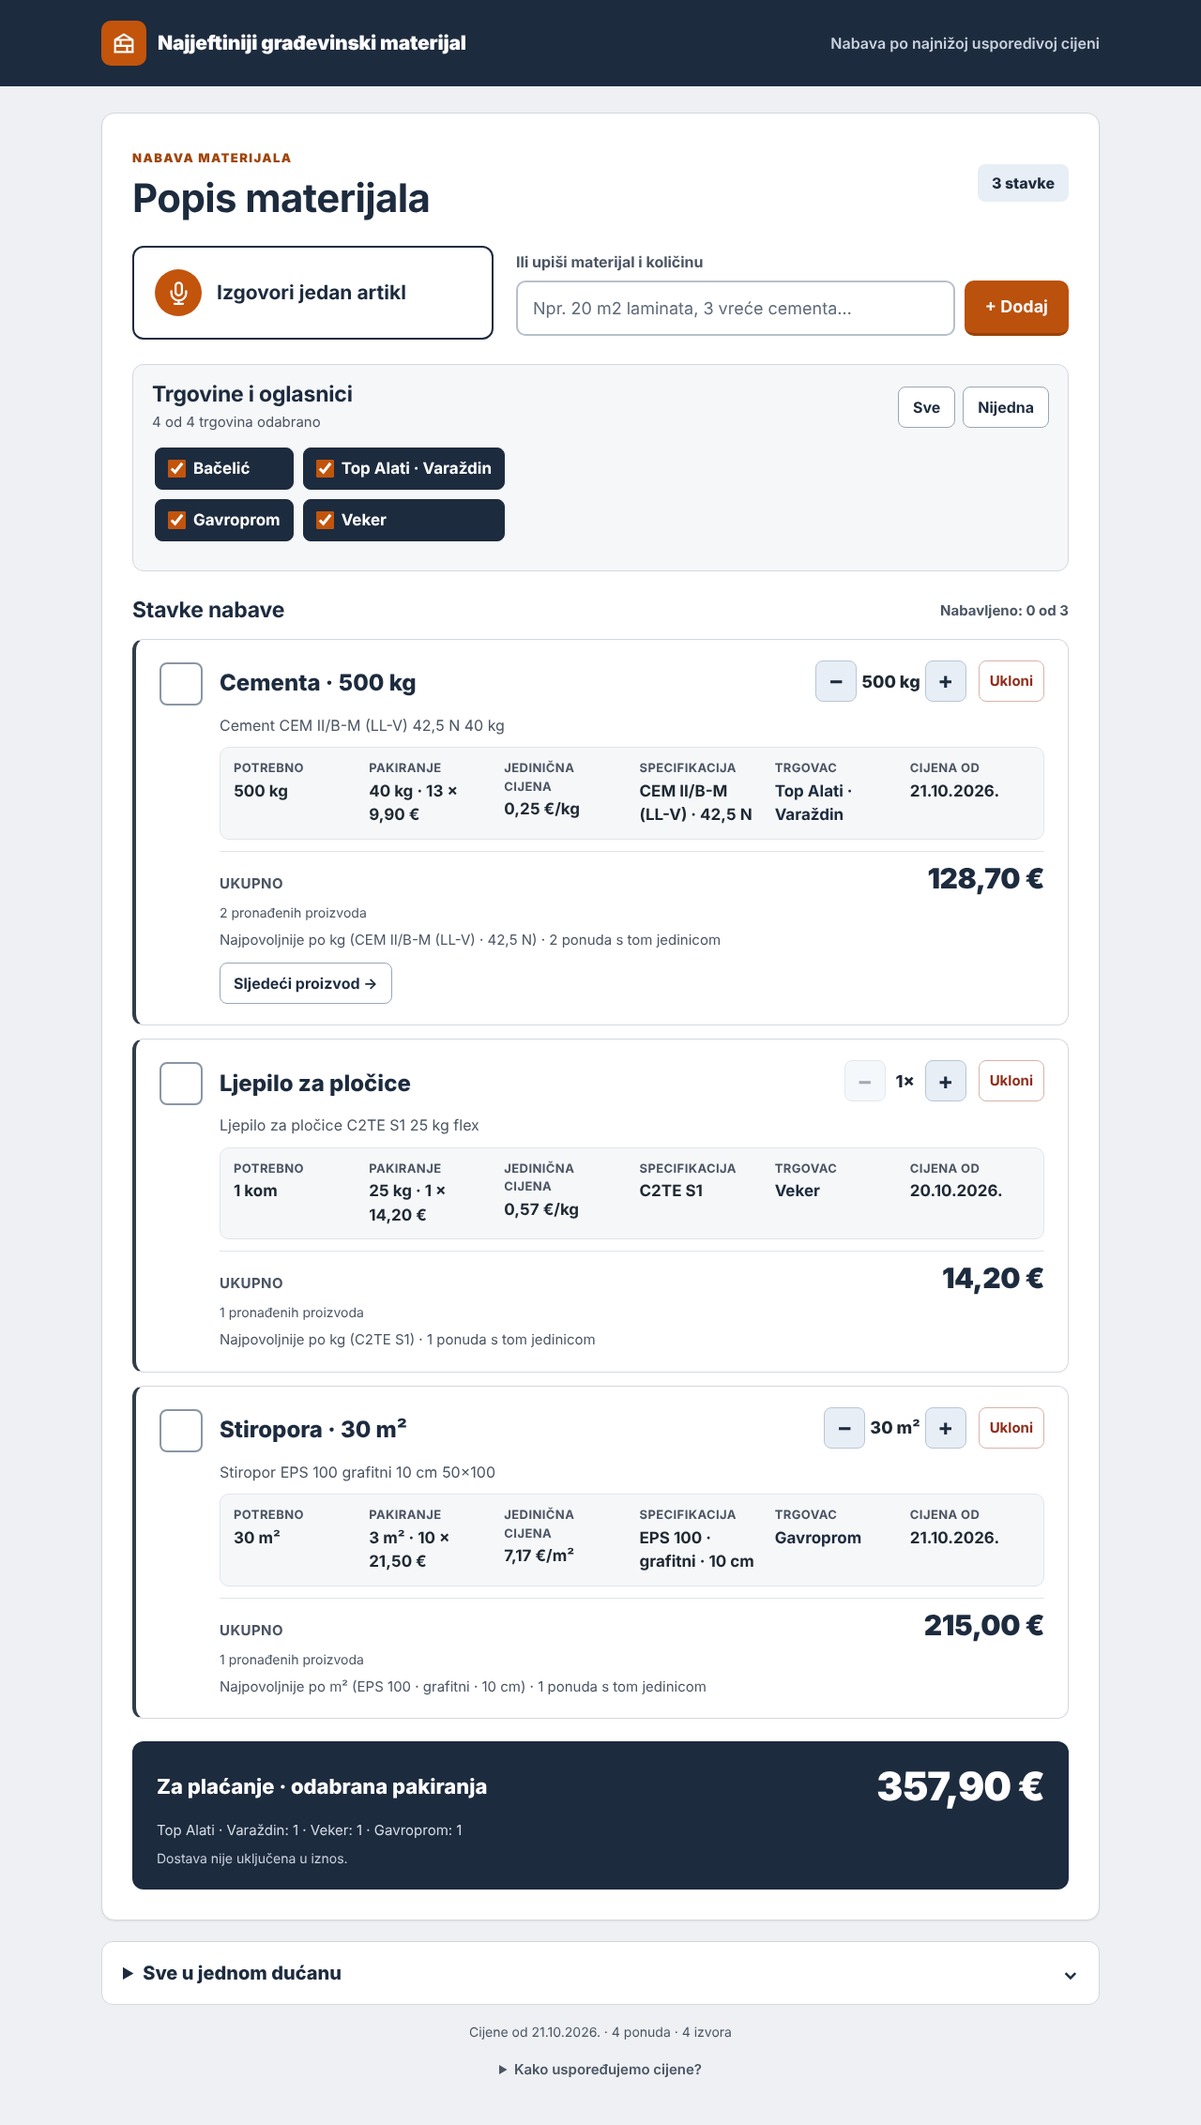
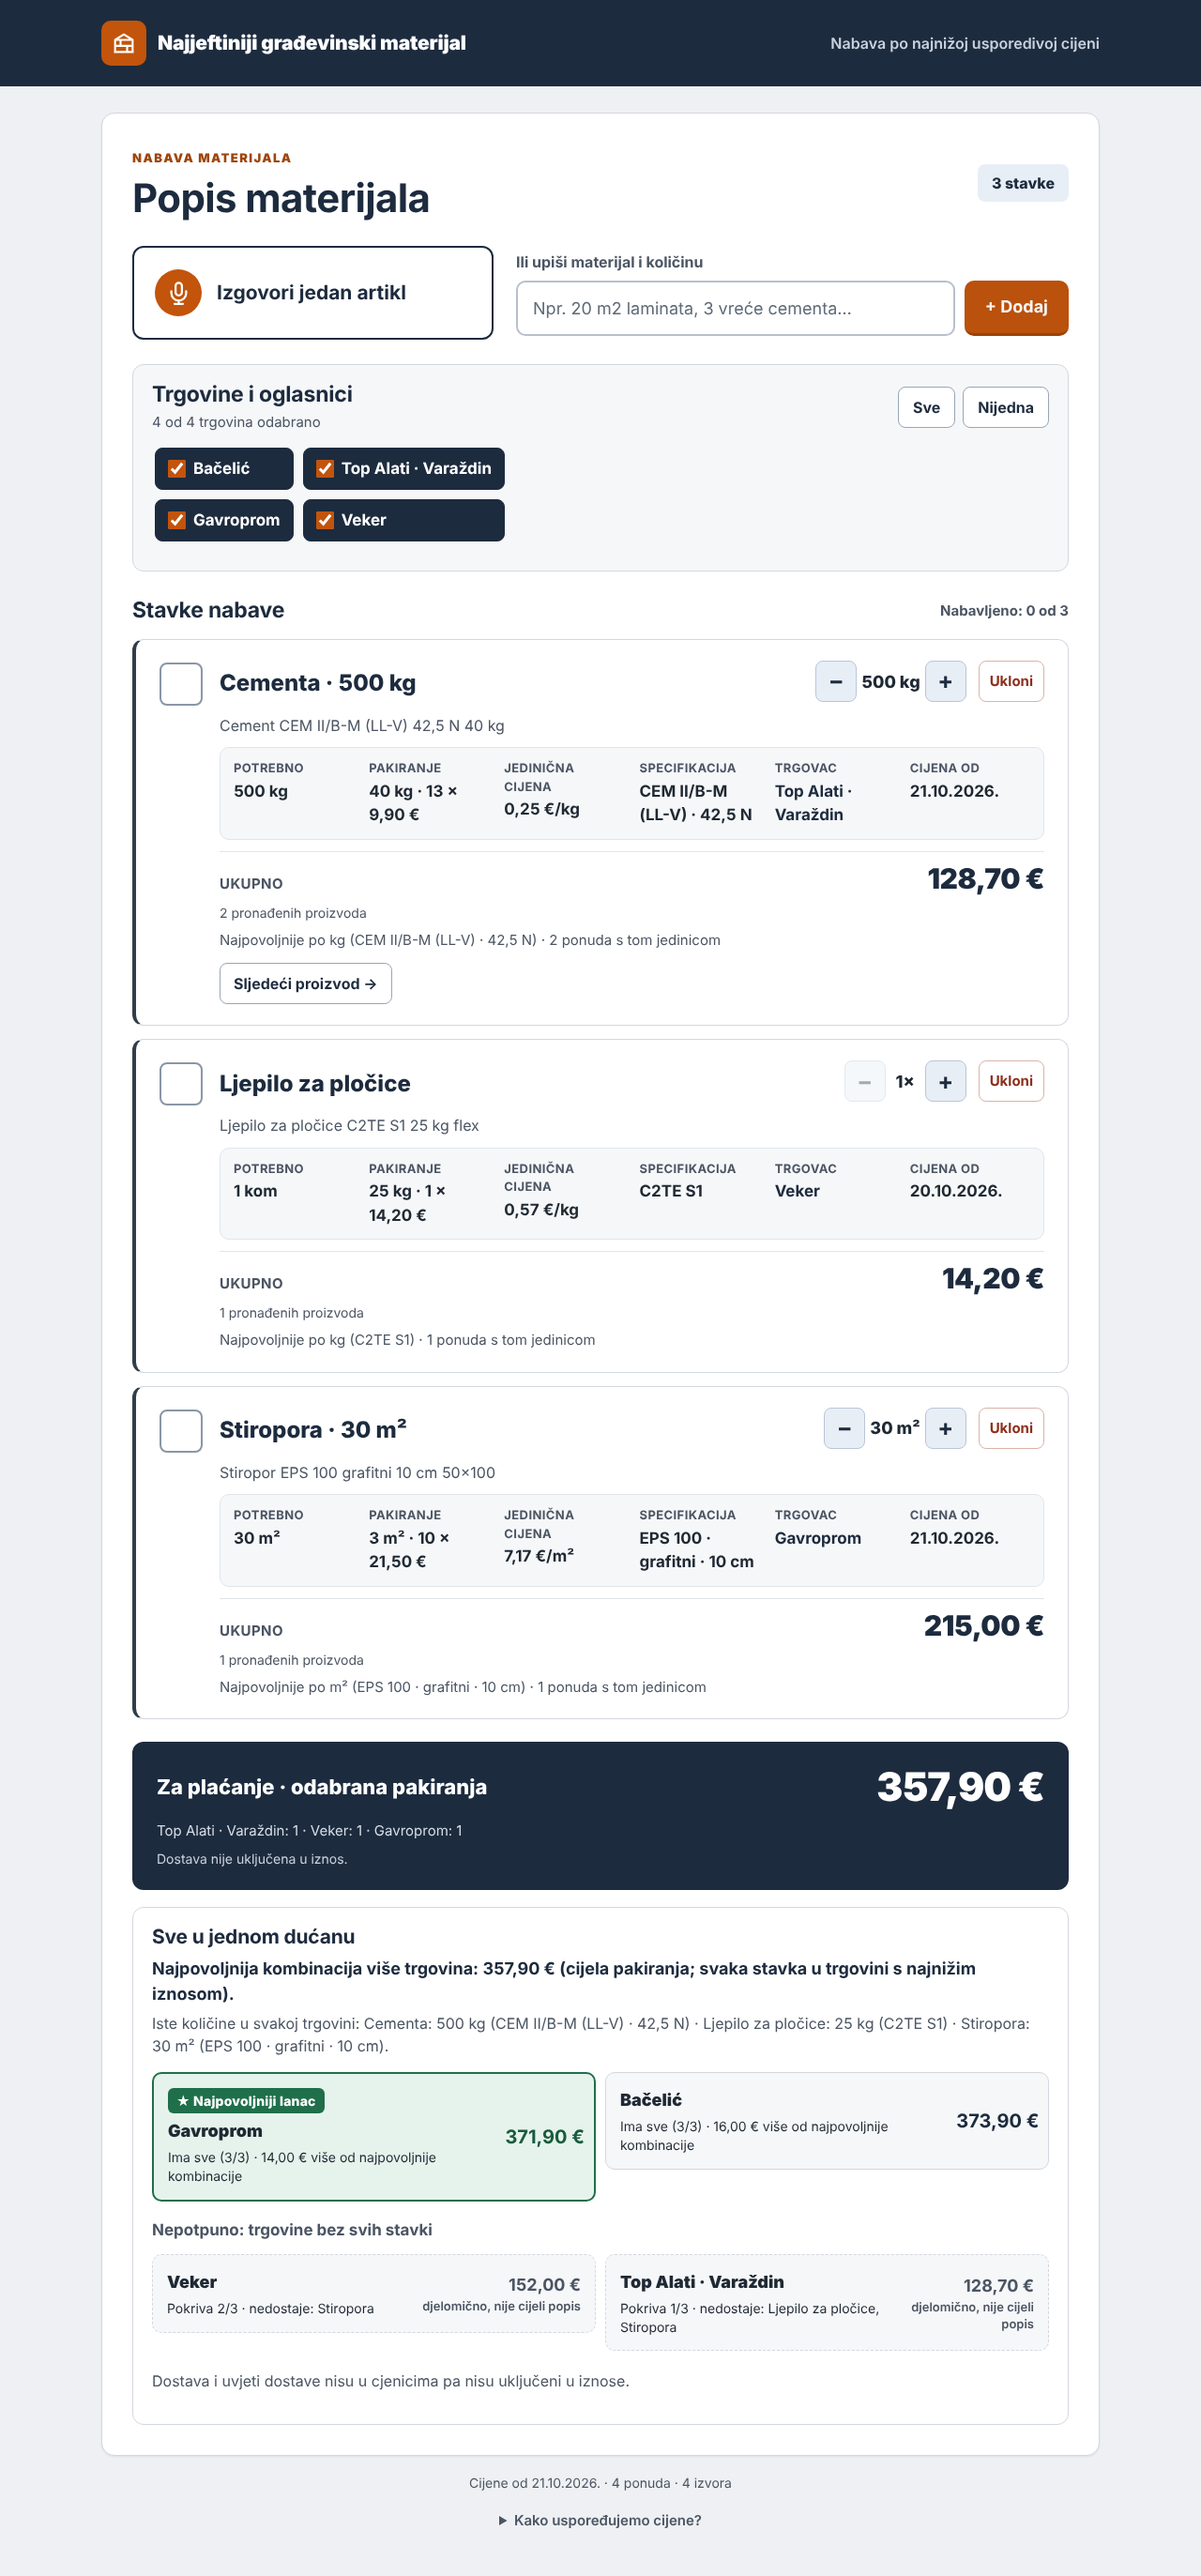
Sve u jednom dućanu: all stores visible at once, cheapest complete store highlighted, difference to the multi-store combination
The comparison is now shown right under the main total instead of in a
collapsed section, with every store listed. Complete stores (a
comparable offer for every item) are sorted by their whole-pack total,
which equals the sum of that store's cards when opened; the cheapest
(all tied ones) get a green highlight plus the text '★ Najpovoljniji
lanac'. Each complete store shows its difference in EUR to the cheapest
multi-store combination (per item, the lowest whole-pack amount among
stores). Incomplete stores are listed separately with X/Y coverage and
the missing items, their partial sum labelled as not the whole list,
and never win. With no complete store the page says so and marks no
winner. Delivery is stated as not included. Tests: tests/sve-u-jednom.cjs;
screenshots (synthetic sample) in docs/snimke/jedna-*.png.

Claude-Session: https://claude.ai/code/session_012YQEjpXDyr7hVqmNyC8SPz

diff --git a/site/aplikacija.js b/site/aplikacija.js
@@ -748,73 +748,99 @@ function prikaziRezultate() {
   prikaziJednuTrgovinu();
 }
 
-const PRVIH_TRGOVINA = 8;
-let prikaziSveTrgovine = false;
+// Sve u jednom dućanu: ukupan iznos cijelog popisa u svakoj trgovini (cijela pakiranja, iste tražene količine,
+// iste jedinice/specifikacije kao kartice te trgovine) i najpovoljnija kombinacija više trgovina.
+// Pobijediti može samo trgovina s usporedivom ponudom za svaku stavku; nepotpune se prikazuju zasebno.
+const centi = (x) => Math.round(x * 100);
 
-// Koliko bi koštalo da se sve kupi u istoj trgovini.
+function sveUJednomDucanu() {
+  const { zbroj, najboljePoStavci, jedinice } = usporedbaKosarice();
+  const stavki = stanje.popis.length;
+  let kombinacija = 0;
+  let kombinacijaNedostaje = 0;
+  for (const stavka of stanje.popis) {
+    // Po stavci najniži stvarni iznos cijelih pakiranja među trgovinama koje imaju usporedivu ponudu.
+    const iznosi = [...(najboljePoStavci.get(stavka.naziv) || new Map()).values()]
+      .map((p) => p.cijena * brojPakiranja(stavka, p, true));
+    if (iznosi.length) kombinacija += Math.min(...iznosi);
+    else kombinacijaNedostaje++;
+  }
+  const potpune = [];
+  const nepotpune = [];
+  for (const [l, z] of zbroj) {
+    const red = { lanac: l, ime: podaci.lanci[l], ukupno: z.ukupno, pokriveno: stavki - z.nema.length, stavki,
+      nedostaje: z.nema, rucniOdabir: z.neusporedivo.filter((n) => !z.nema.includes(n)) };
+    if (!z.nema.length) potpune.push(red);
+    else if (red.pokriveno > 0) nepotpune.push(red);
+  }
+  potpune.sort((a, b) => centi(a.ukupno) - centi(b.ukupno) || a.ime.localeCompare(b.ime, "hr"));
+  nepotpune.sort((a, b) => b.pokriveno - a.pokriveno || a.ukupno - b.ukupno || a.ime.localeCompare(b.ime, "hr"));
+  const najmanje = potpune.length ? centi(potpune[0].ukupno) : null;
+  for (const r of potpune) {
+    r.najpovoljniji = centi(r.ukupno) === najmanje; // svi izjednačeni najpovoljniji
+    r.razlika = kombinacijaNedostaje ? null : (centi(r.ukupno) - centi(kombinacija)) / 100;
+  }
+  return { potpune, nepotpune, stavki, jedinice, kombinacija: kombinacijaNedostaje ? null : kombinacija, kombinacijaNedostaje };
+}
+
+function redTrgovine(r) {
+  const li = document.createElement("li");
+  const b = gumb("", "trgovina-red" + (r.najpovoljniji ? " najpovoljniji" : "") + (stanje.jedna === r.ime ? " odabrana" : "")
+    + (r.nedostaje.length ? " nepotpun" : ""), () => {
+    if (!stanje.jedna) stanje.odabirSvi = { ...stanje.odabir };
+    stanje.jedna = stanje.jedna === r.ime ? null : r.ime;
+    promijeniPostavke(true);
+    window.scrollTo(0, 0);
+  });
+  const lijevo = document.createElement("span");
+  lijevo.className = "lijevo";
+  if (r.najpovoljniji) {
+    const znacka = document.createElement("span");
+    znacka.className = "znacka";
+    znacka.textContent = "★ Najpovoljniji lanac";
+    lijevo.appendChild(znacka);
+  }
+  const naziv = document.createElement("strong");
+  naziv.textContent = r.ime;
+  const opis = document.createElement("small");
+  opis.textContent = r.nedostaje.length
+    ? `Pokriva ${r.pokriveno}/${r.stavki} · nedostaje: ${r.nedostaje.join(", ")}`
+    : `Ima sve (${r.stavki}/${r.stavki})` + (r.razlika === null ? ""
+      : r.razlika > 0 ? ` · ${euro(r.razlika)} više od najpovoljnije kombinacije` : " · jednako najpovoljnijoj kombinaciji")
+      + (r.rucniOdabir.length ? ` · uključuje ručno odabrane ponude: ${r.rucniOdabir.join(", ")}` : "");
+  lijevo.append(naziv, opis);
+  const iznos = document.createElement("span");
+  iznos.className = "iznos";
+  iznos.textContent = r.nedostaje.length ? `${euro(r.ukupno)}` : euro(r.ukupno);
+  if (r.nedostaje.length) {
+    const oznaka = document.createElement("small");
+    oznaka.textContent = "djelomično, nije cijeli popis";
+    iznos.appendChild(oznaka);
+  }
+  iznos.setAttribute("aria-label", r.nedostaje.length ? `Djelomični iznos ${euro(r.ukupno)}, nije cijeli popis`
+    : `${euro(r.ukupno)} za cijela pakiranja, isto kao zbroj kartica u toj trgovini`);
+  b.append(lijevo, iznos);
+  li.appendChild(b);
+  return li;
+}
+
 function prikaziJednuTrgovinu() {
   const ul = $("trgovine-usporedba");
+  const ulN = $("trgovine-nepotpune");
   ul.innerHTML = "";
+  ulN.innerHTML = "";
   $("jedna-trgovina").hidden = !podaci || !stanje.popis.length;
-  if (!podaci || !stanje.popis.length) return;
-
-  const { zbroj, najboljeMijesano, sveMijesanoIma, jedinice } = usporedbaKosarice();
-  const napomena = document.createElement("li");
-  napomena.className = "savjet";
-  napomena.textContent = `Usporedne količine: ${jedinice.join(" · ") || "nema usporedivih ponuda"}. `
-    + (sveMijesanoIma ? `Najniže po jediničnim cijenama svih trgovina: ${euro(najboljeMijesano)} (usporedba, nije iznos na blagajni).`
-      : "Nije moguće usporediti cijeli popis.");
-  ul.appendChild(napomena);
-
-  const sviRedovi = [...zbroj].filter(([, z]) => z.nema.length < stanje.popis.length)
-    .sort(([, a], [, b]) => a.nema.length - b.nema.length || a.ukupno - b.ukupno || a.usporedno - b.usporedno);
-  // Prvih PRVIH_TRGOVINA odmah, ostale na zahtjev: nijedna trgovina nije skrivena bez mogućnosti prikaza.
-  const redovi = prikaziSveTrgovine ? sviRedovi : sviRedovi.slice(0, PRVIH_TRGOVINA);
-  const najjeftinijaCijela = Math.min(...sviRedovi.filter(([, z]) => !z.nema.length).map(([, z]) => z.ukupno));
-  if (!redovi.length) { $("jedna-trgovina").hidden = true; return; }
-
-  for (const [l, z] of redovi) {
-    const ime = podaci.lanci[l];
-    const li = document.createElement("li");
-    const b = gumb("", "trgovina-red" + (stanje.jedna === ime ? " odabrana" : ""), () => {
-      if (!stanje.jedna) stanje.odabirSvi = { ...stanje.odabir };
-      stanje.jedna = stanje.jedna === ime ? null : ime;
-      promijeniPostavke(true);
-      window.scrollTo(0, 0);
-    });
-    const lijevo = document.createElement("span");
-    lijevo.className = "lijevo";
-    const naziv = document.createElement("strong");
-    naziv.textContent = ime;
-    const opis = document.createElement("small");
-    opis.textContent = z.nema.length
-      ? `Nedostaje usporediva ponuda: ${z.nema.join(", ")}. Nije cijeli popis.`
-      : z.ukupno - najjeftinijaCijela >= 0.005
-        ? `Ima sve · ${euro(z.ukupno - najjeftinijaCijela)} više od najjeftinije trgovine`
-        : "Ima sve · najniži ukupni trošak nabave";
-    const placanje = document.createElement("small");
-    placanje.textContent = z.nema.length
-      ? `Za prikazane proizvode u trgovini: ${euro(z.ukupno)}`
-      : `Po jedinici za iste količine: ${euro(z.usporedno)} (usporedba, nije iznos na blagajni)`;
-    lijevo.append(naziv, opis, placanje);
-    const iznos = document.createElement("span");
-    iznos.className = "iznos";
-    iznos.textContent = z.nema.length ? "Nepotpuno" : `${euro(z.ukupno)}`;
-    iznos.setAttribute("aria-label", z.nema.length ? "Nema iznosa za cijeli popis" : `${euro(z.ukupno)} za cijela pakiranja, isto kao zbroj kartica u toj trgovini`);
-    b.append(lijevo, iznos);
-    li.appendChild(b);
-    ul.appendChild(li);
-  }
-  if (sviRedovi.length > redovi.length) {
-    const li = document.createElement("li");
-    li.className = "savjet";
-    li.appendChild(gumb(`Prikaži sve trgovine (${sviRedovi.length})`, "sljedeci", () => {
-      prikaziSveTrgovine = true;
-      prikaziJednuTrgovinu();
-    }));
-    ul.appendChild(li);
-  }
-  return { prikazano: redovi.length, ukupno: sviRedovi.length };
+  if (!podaci || !stanje.popis.length) return null;
+  const rez = sveUJednomDucanu();
+  $("kombinacija").textContent = rez.kombinacija !== null
+    ? `Najpovoljnija kombinacija više trgovina: ${euro(rez.kombinacija)} (cijela pakiranja; svaka stavka u trgovini s najnižim iznosom).`
+    : `Kombinacija više trgovina nije potpuna: za ${rez.kombinacijaNedostaje} od ${rez.stavki} stavki nema usporedive ponude.`;
+  $("usporedne-kolicine").textContent = rez.jedinice.length ? `Iste količine u svakoj trgovini: ${rez.jedinice.join(" · ")}.` : "";
+  $("nema-potpune").hidden = rez.potpune.length > 0;
+  for (const r of rez.potpune) ul.appendChild(redTrgovine(r));
+  $("nepotpune-naslov").hidden = !rez.nepotpune.length;
+  for (const r of rez.nepotpune) ulN.appendChild(redTrgovine(r));
+  return rez;
 }
 
 function promijeni(grupa, smjer) {

diff --git a/site/index.html b/site/index.html
@@ -49,8 +49,17 @@
         <div id="po-trgovinama" class="po-trgovinama"></div>
         <p class="napomena-dostava">Dostava nije uključena u iznos.</p>
       </div>
+      <section id="jedna-trgovina" class="jedna-trgovina" aria-labelledby="jedna-naslov" hidden>
+        <h2 id="jedna-naslov">Sve u jednom dućanu</h2>
+        <p id="kombinacija" class="kombinacija"></p>
+        <p id="usporedne-kolicine" class="savjet"></p>
+        <p id="nema-potpune" class="upozorenje" hidden>Nijedna trgovina nema sve stavke s usporedivom ponudom: cijeli popis nije moguće kupiti u jednom dućanu.</p>
+        <ul id="trgovine-usporedba" class="trgovine-usporedba" aria-label="Trgovine sa svim stavkama, od najjeftinije"></ul>
+        <h3 id="nepotpune-naslov" class="nepotpune-naslov" hidden>Nepotpuno: trgovine bez svih stavki</h3>
+        <ul id="trgovine-nepotpune" class="trgovine-usporedba" aria-label="Trgovine bez svih stavki"></ul>
+        <p class="savjet">Dostava i uvjeti dostave nisu u cjenicima pa nisu uključeni u iznose.</p>
+      </section>
     </section>
-    <section id="jedna-trgovina" class="jedna-trgovina" hidden><details><summary>Sve u jednom dućanu <span aria-hidden="true">⌄</span></summary><ul id="trgovine-usporedba" class="trgovine-usporedba"></ul></details></section>
     <footer>
       <div class="stanje-podataka"><p id="status" role="status">Učitavam cijene…</p><button id="ponovi" type="button" hidden>Pokušaj ponovno</button></div>
       <details class="pomoc"><summary>Kako uspoređujemo cijene?</summary><p>Poredak je po jediničnoj cijeni (m², m³, m, kg, l ili kom), samo među proizvodima iste specifikacije. Oglasi bez potpunih podataka nisu uspoređeni. Prikazana je najniža cijena unutar trgovine; dostava nije uključena.</p></details>

diff --git a/site/stil.css b/site/stil.css
@@ -77,3 +77,16 @@ input::placeholder{color:#5f6b78}
 :focus-visible{outline:3px solid var(--naglasak);outline-offset:3px}
 @media(max-width:700px){.zaglavlje{margin-bottom:16px}.mali-naslov{font-size:13px}.grupa{font-size:22px}.podaci-ponude{grid-template-columns:1fr 1fr;padding:10px}.podaci-ponude dd{font-size:16px}.cijena{font-size:27px}}
 @media(max-width:360px){.podaci-ponude{grid-template-columns:1fr}}
+/* Sve u jednom dućanu: odmah vidljivo uz glavni rezultat; najpovoljniji potpuni lanac zelenom bojom, oznakom i tekstom. */
+.jedna-trgovina{margin-top:18px;padding:18px 20px}
+.jedna-trgovina h2{font-size:21px;margin-bottom:8px}
+.kombinacija{font-weight:700;color:var(--navy);margin-bottom:6px}
+.nepotpune-naslov{font-size:17px;color:var(--muted);margin:6px 0 0}
+.trgovina-red.najpovoljniji{background:#e6f3ec;border:2px solid #1f6f4a}
+.trgovina-red.najpovoljniji .iznos{color:#185c3c}
+.znacka{display:inline-block;align-self:flex-start;background:#1f6f4a;color:#fff;font-size:14px;font-weight:800;padding:3px 9px;border-radius:6px;letter-spacing:.2px}
+.trgovina-red.nepotpun{background:#f6f7f9;border-style:dashed}
+.trgovina-red.nepotpun .iznos{color:var(--muted);font-size:18px;display:flex;flex-direction:column;align-items:flex-end}
+.trgovina-red .iznos small{font-size:13px;font-weight:600;color:var(--muted);text-align:right}
+@media(max-width:700px){.jedna-trgovina{padding:14px 12px}}
+.trgovina-red:not(.nepotpun) .iznos{white-space:nowrap;max-width:none;min-width:0}

diff --git a/site/sw.js b/site/sw.js
@@ -1,5 +1,5 @@
 // Omogućuje da se aplikacija otvori i bez interneta (s posljednjim cijenama).
-const CACHE = "gradjevina-v8";
+const CACHE = "gradjevina-v9";
 const OSNOVA = ["./", "index.html", "stil.css", "aplikacija.js", "skupine.js", "manifest.webmanifest", "ikona.svg", "ikona-192.png", "ikona-512.png"];
 
 self.addEventListener("install", (e) => {
